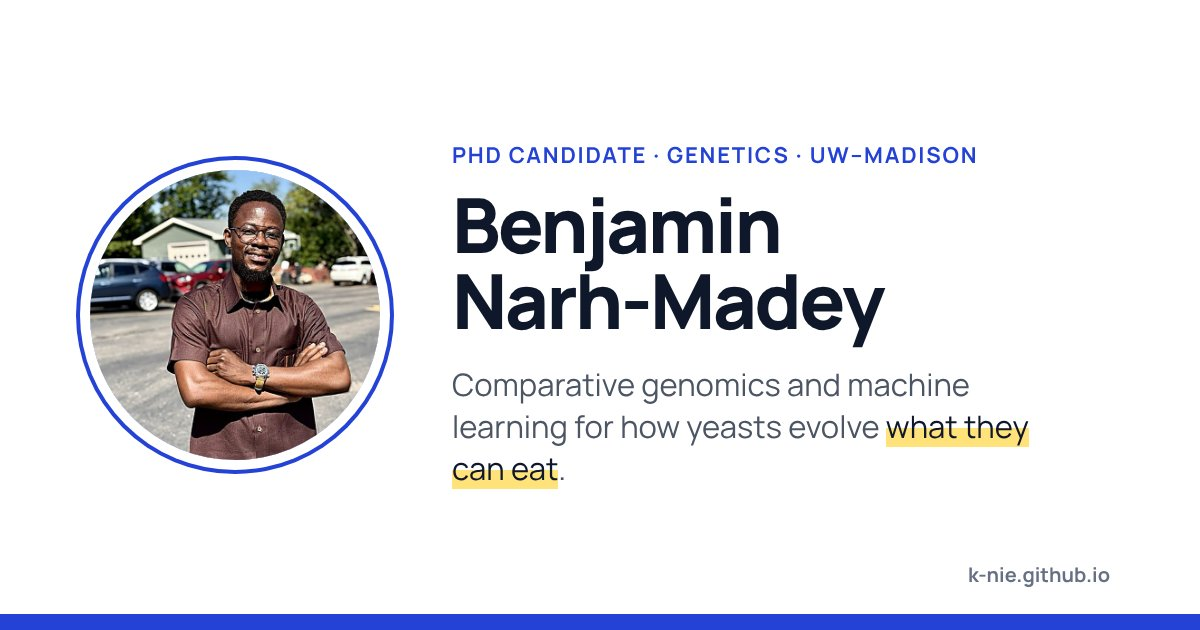
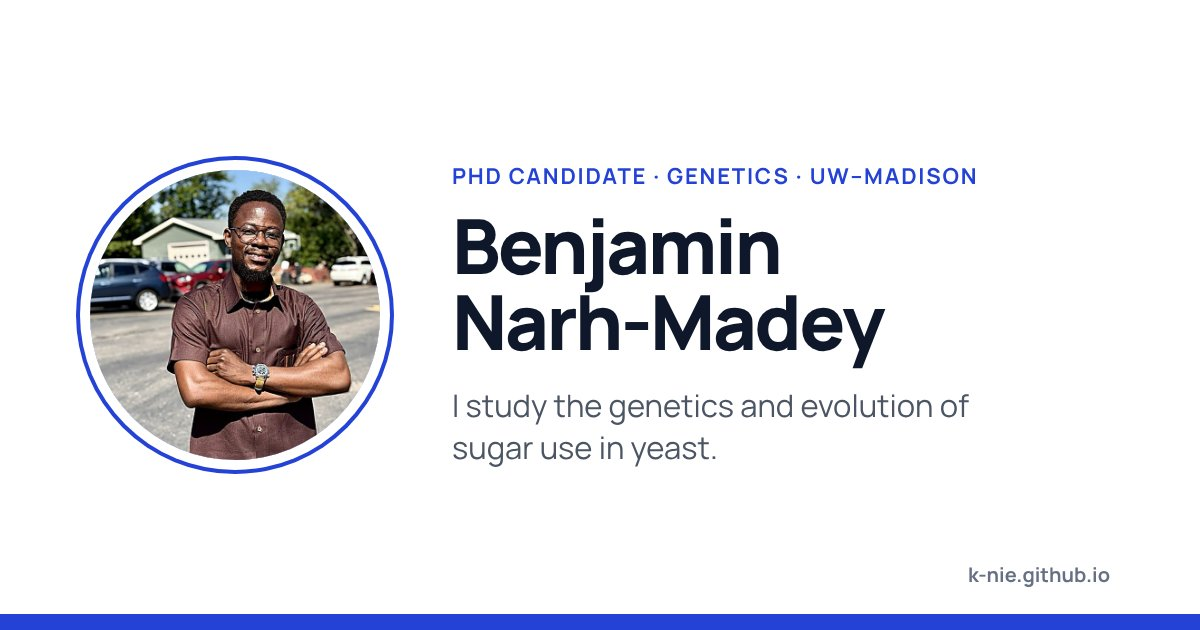
Rewrite site copy in plainer language
Replace catchy or formulaic phrasing in the hero, About, Research and
Software text with direct sentences; plain one-line summary in the meta
description and social card; smooth two stock phrases in the CV summary.

Claude-Session: https://claude.ai/code/session_01CqHDqByYFcMc1XPpdfue5C

Changed region(s): [[0.37, 0.2111, 0.8633, 0.7841]]

diff --git a/index.html b/index.html
@@ -4,14 +4,14 @@
   <meta charset="utf-8">
   <meta name="viewport" content="width=device-width, initial-scale=1">
   <title>Benjamin Narh-Madey · PhD Candidate, Genetics, UW–Madison</title>
-  <meta name="description" content="Benjamin Narh-Madey is a PhD candidate in the Hittinger Lab, Genetics Graduate Program, UW–Madison, working on yeast comparative and evolutionary genomics, machine learning for genomics, and phylogenomics.">
+  <meta name="description" content="Benjamin Narh-Madey is a PhD candidate in the Hittinger Lab at UW–Madison. He studies the genetics and evolution of sugar use in yeast with comparative genomics and machine learning.">
   <meta name="author" content="Benjamin Narh-Madey">
   <link rel="canonical" href="https://k-nie.github.io/">
 
   <meta property="og:type" content="profile">
   <meta property="og:site_name" content="Benjamin Narh-Madey">
   <meta property="og:title" content="Benjamin Narh-Madey · PhD Candidate, Genetics, UW–Madison">
-  <meta property="og:description" content="Comparative genomics and machine learning for how yeasts evolve what they can eat, plus open-source genomics tools.">
+  <meta property="og:description" content="PhD candidate in Genetics at UW–Madison. I study the genetics and evolution of sugar use in yeast.">
   <meta property="og:url" content="https://k-nie.github.io/">
   <meta property="og:image" content="https://k-nie.github.io/images/og-card.jpg">
   <meta property="og:image:width" content="1200">
@@ -96,7 +96,7 @@
       <div class="hero-text">
         <p class="eyebrow">PhD Candidate in Genetics · UW–Madison</p>
         <h1 id="name">Benjamin <span class="nowrap">Narh-Madey</span></h1>
-        <p class="hero-line">I use comparative genomics and machine learning to understand how yeasts evolve <mark>what they can eat</mark>, and build open-source tools that make that work reproducible.</p>
+        <p class="hero-line">I study the genetics and evolution of sugar use in yeast, using comparative genomics and machine learning. I also write open-source software for genomics.</p>
         <p class="hero-affil"><a href="https://hittinger.genetics.wisc.edu">Hittinger Lab</a> · <a href="https://genetics.wisc.edu">Genetics Graduate Program</a></p>
         <div class="hero-actions">
           <a class="btn" href="/cv.html">View CV</a>
@@ -117,8 +117,8 @@
     <div class="container">
       <h2 id="about-h">About</h2>
       <div class="prose">
-        <p>I study how yeasts gain and lose the ability to use different sugars, using comparative genomics and machine learning across more than a thousand yeast strains.</p>
-        <p>My current focus is <strong>xylose</strong>: why a few wild yeasts use it better than industry-engineered strains, and how to turn them into better chassis for biofuel production. Before Madison, I trained as a plant breeder and quantitative geneticist working on West African crops.</p>
+        <p>I am a PhD candidate in the Hittinger Lab at UW–Madison. My research asks how yeasts gain and lose the ability to use different sugars, and I work with genome data from more than a thousand yeast strains.</p>
+        <p>Right now I am working on <strong>xylose</strong>, a sugar found in plant biomass. A few wild yeasts use xylose better than strains engineered for industry. I want to find out why, and use that to improve yeasts for biofuel production. Before coming to Madison, I trained as a plant breeder and quantitative geneticist, working on maize, cowpea and other crops in West Africa.</p>
       </div>
     </div>
   </section>
@@ -127,10 +127,10 @@
     <div class="container">
       <h2 id="research-h">Research</h2>
       <ul class="interests">
-        <li><h3>Machine learning, mathematical modelling &amp; genomics</h3><p>Models that link gene content to growth on different sugars across more than a thousand yeast strains, and trace predictions back to the genes behind them.</p></li>
-        <li><h3>Evolutionary biology</h3><p>How yeasts gained, lost, and rewired the ability to use sugars such as xylose and mannose over millions of years.</p></li>
-        <li><h3>Statistical genomics &amp; genetics</h3><p>Genomic prediction, heritability, selection scans, and population structure, from West African crops to yeast.</p></li>
-        <li><h3>Open-source tool development</h3><p>Fast, reproducible command-line tools for genomics, such as <code>gfc</code> and <code>myconote</code>.</p></li>
+        <li><h3>Machine learning, mathematical modelling &amp; genomics</h3><p>Models that predict which sugars a yeast can grow on from its genome, and point to the genes involved.</p></li>
+        <li><h3>Evolutionary biology</h3><p>How the ability to use sugars such as xylose and mannose was gained and lost as yeasts evolved.</p></li>
+        <li><h3>Statistical genomics &amp; genetics</h3><p>Genomic prediction, heritability, selection scans and population structure, in crops and in yeast.</p></li>
+        <li><h3>Open-source tool development</h3><p>Command-line software for genomics, including <code>gfc</code> and <code>myconote</code> (below).</p></li>
       </ul>
     </div>
   </section>
@@ -174,12 +174,12 @@
       <ul class="software">
         <li>
           <div class="sw-head"><h3><code>gfc</code></h3><span class="tag">Python</span></div>
-          <p>One command-line tool for 30 genomics file-format conversions (VCF, GFF3, BED, PLINK, FASTA and more), each benchmarked against the tool it replaces.</p>
+          <p>Converts between common genomics file formats, including VCF, GFF3, BED, PLINK and FASTA (30 conversions in all). Each converter is tested against the standard tool it replaces.</p>
           <p class="links"><a href="https://github.com/K-nie/genome-format-converters">Repository</a></p>
         </li>
         <li>
           <div class="sw-head"><h3><code>myconote</code></h3><span class="tag">Rust</span></div>
-          <p>Fungal genome annotation from raw assembly to NCBI submission, with RNA-seq and allele-specific expression built in.</p>
+          <p>Annotates fungal genomes, from a raw assembly to files ready for NCBI submission. It also includes RNA-seq and allele-specific expression analysis.</p>
           <p class="links"><a href="https://github.com/K-nie/myconote-cli">Repository</a> <a href="https://k-nie.github.io/myconote-cli/">Documentation</a></p>
         </li>
       </ul>

diff --git a/cv.html b/cv.html
@@ -69,7 +69,7 @@
 
   <section aria-labelledby="cv-interests">
     <h2 id="cv-interests">Research interests</h2>
-    <p>My research investigates gene regulation, metabolic adaptation, and evolutionary processes in yeast. I combine genetics, comparative genomics, and machine learning on large-scale phylogenomic datasets to study how yeast strains gain and lose the capacity to metabolize alternative carbon sources. I focus on uncovering the regulatory and evolutionary basis of sugar metabolism, particularly mannose and the hexose-transporter family, and on building open-source software that helps researchers identify yeast strains with unusual metabolic capabilities and the genes that drive them. The work sits at the intersection of comparative genomics, predictive modelling, and empirical genetics, with applications in metabolic engineering, synthetic biology, and industrial fermentation.</p>
+    <p>My research investigates gene regulation, metabolic adaptation, and evolutionary processes in yeast. I combine genetics, comparative genomics, and machine learning on large-scale phylogenomic datasets to study how yeast strains gain and lose the capacity to metabolize alternative carbon sources. I focus on the regulatory and evolutionary basis of sugar metabolism, particularly mannose and the hexose-transporter family, and on building open-source software that helps researchers identify yeast strains with unusual metabolic capabilities and the genes that drive them. The work combines comparative genomics, predictive modelling and experimental genetics, and has applications in metabolic engineering, synthetic biology and industrial fermentation.</p>
   </section>
 
   <section aria-labelledby="cv-edu">
